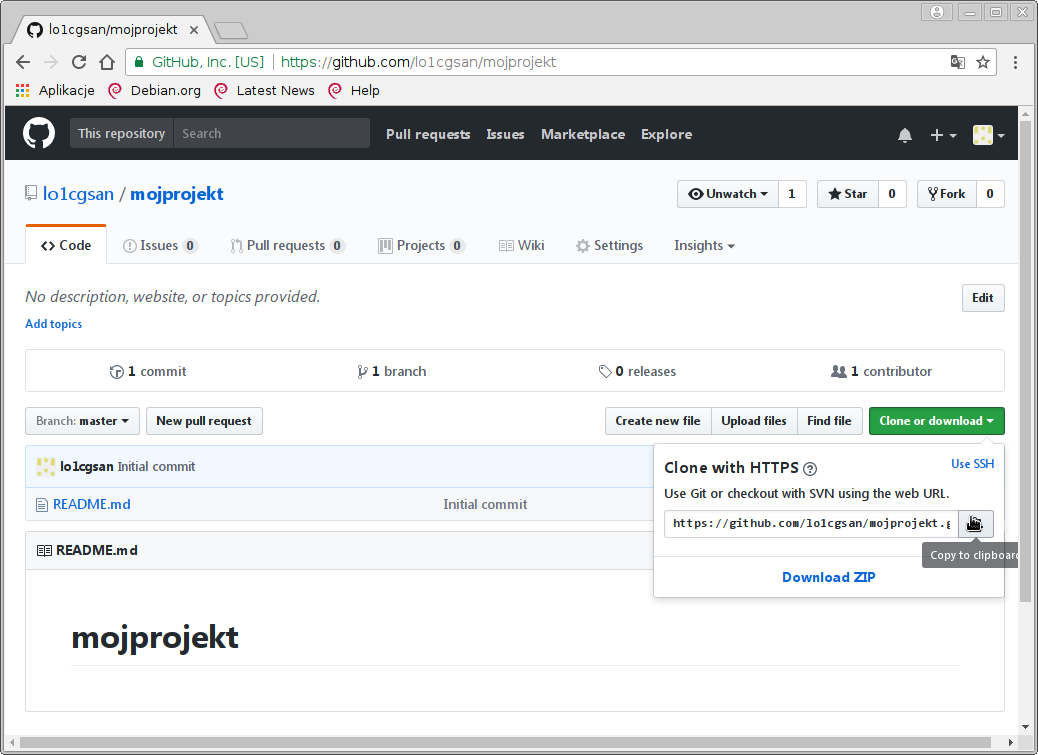
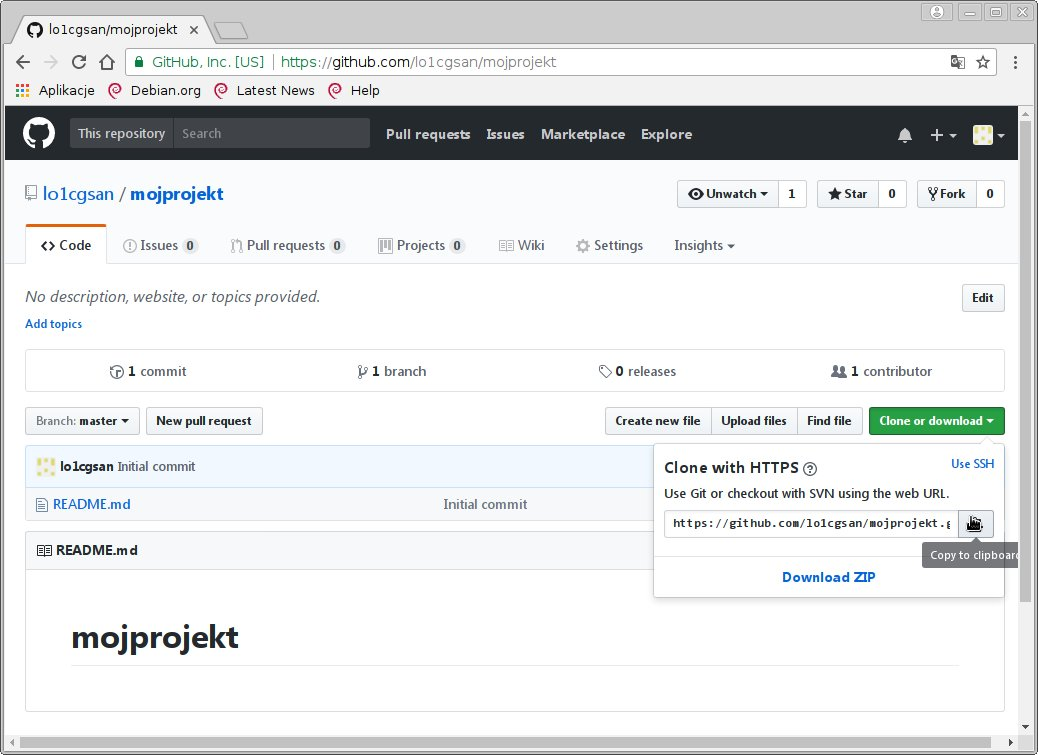
Podmiana zrzutów w scenariuszu Git.

diff --git a/docs/tools/git/index.rst b/docs/tools/git/index.rst
@@ -26,8 +26,6 @@ Możemy postępować wg poniższych instrukcji:
 
 .. figure:: img/git_repo02.jpg
 
-.. figure:: img/git_repo03.jpg
-
 W ten sposób założyliśmy repozytorium zdalne.
 
 Klient Gita
@@ -113,7 +111,7 @@ Klonowanie repozytorium
 =======================
 
 Repozytorium lokalne można tworzyć od podstaw (zob. dalej),
-ale jeżeli utworzyliśmy repozytorium w zdalne w serwisie GitHub
+ale jeżeli utworzyliśmy repozytorium zdalne w serwisie GitHub
 najprościej jest je sklonować.
 
 W terminalu wydajemy polecenie:
@@ -124,6 +122,8 @@ W terminalu wydajemy polecenie:
 
 Najważniejszy jest argument *Git URL*, czyli schematyczny adres repozytorium,
 który kopiujemy ze strony głównej repozytorium po kliknięciu w przycisk "Clone or download":
+
+.. figure:: img/git_repo03.jpg
 
 .. figure:: img/git_clone.jpg
 
